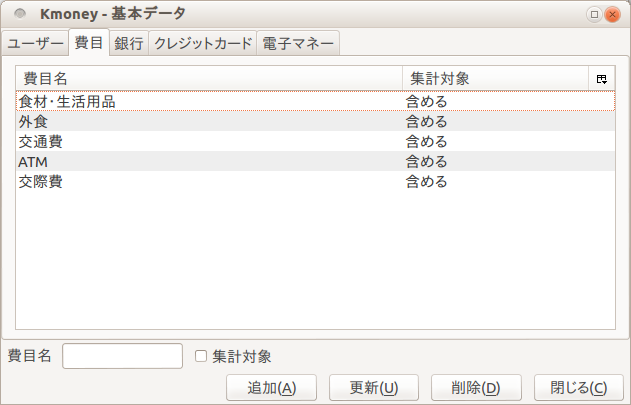
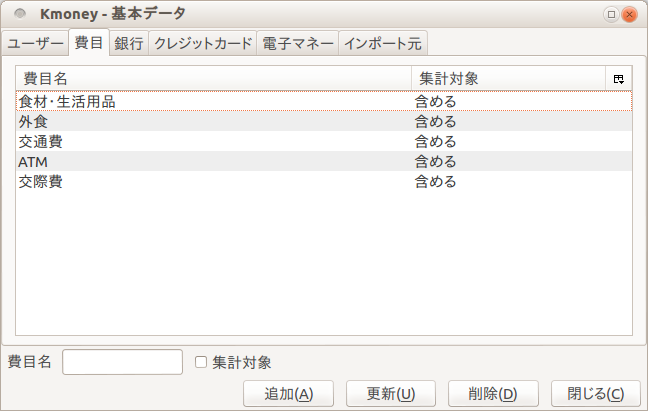
基本データ設定ダイアログにインポート元タブを追加

diff --git a/usermanual.html b/usermanual.html
@@ -122,7 +122,7 @@
 
 <h3>インポート設定</h3>
 
-<p><img src="screenshots/Kmoney_Firefox_005.png" alt="インポート設定" /></p>
+<p><img src="screenshots/Kmoney_Firefox_005.png" alt="インポート設定" title="" /></p>
 
 <p>メニューバーの「設定」ー「インポート設定」で、インポートのルールを設定することができます。</p>
 
@@ -144,9 +144,13 @@
 
 <h3>費目</h3>
 
-<p>「費目」タブで費目を設定します。「集計対象」をチェックすると、その費目は「集計」タブの全費目のグラフを表示するときに集計対象となります。銀行口座からのクレジットカードの引き落しなどはここで集計対象外としてください。集計対象にしてしまうと二重計上が発生してしまいます。</p>
+<p>「費目」タブで費目を設定します。「集計対象」をチェックすると、その費目は「集計」タブの全費目のグラフを表示するときに集計対象となります。収入の費目は集計対象外としてください。集計タブでは支出を正の値として計算するため、収入は負の値として表示されてしまいます。また、クレジットカードの支払いや電子マネーのチャージを記録するための費目も集計対象外としてください。そうしないとクレジットカードや電子マネーを使って何かを買った時の支出と二重に計上されてしまいます。</p>
 
 <p>すでにデータがある費目を削除しようとした場合、データの移行先を選択するダイアログが表示されます。例えば「電話」という費目を削除するとき、移行先として「通信費」を選択すると、費目が「電話」になっていたデータは「通信費」のデータになります。</p>
+
+<h3>インポート元</h3>
+
+<p>「インポート元」タブは、インポートダイアログに現れるインポート元のリストを設定します。使わないインポート元は無効としてください。</p>
 
 <h2><a id="summary"></a>集計／収支</h2>
 
@@ -181,7 +185,6 @@
 <p>明細タブで更新や削除を実行するとき、確認ダイアログが出ないようにしたい場合、「プロンプト」タブの「レコードの更新・削除」のチェックを外してください。</p>
 
 <p>クレジットカードや電子マネーを使わない方は、「表示」タブの「クレジットカード」や「電子マネー」のチェックを外してください。</p>
-
         </section>
 
         <aside id="sidebar">

diff --git a/index.html b/index.html
@@ -29,14 +29,16 @@
         <section id="main-content">
           <p>Kmoneyは、PC、タブレット、スマートフォンで使える家計簿ソフトです。</p>
           
-          <h2>特徴</h2>
-          <ol>
-          <li>現金、クレジットカード、電子マネー、銀行口座の収支を入力できます。</li>
-          <li>費目ごとに毎月の支出を集計できます。</li>
-          <li>複数名の収支を別々に管理できます。</li>
-          <li>ウェブ上で取得できる銀行の入出金明細やクレジットカード明細をインポートできます。</li>
-          </ol>
+          <img src="screenshots/Kmoney_Firefox_000.png" style="width: 400px; float: right" alt="グラフ" />
           
+          <p>家計簿をつけていくうえで一番問題なのは、入力がメンドクサイことです。ふと気がつくと数週間分のレシートがたまってしまい、レシートを見ても何を買ったのか思い出せないことがあります。</p>
+          
+          <p>それを防ぐための第一の方法は、レシートをためないこと、買い物の直後に入力することです。スマートフォンを使えば、買い物の帰り道、電車内や信号待ちの時間を使ってレシートを片づけることができます。</p>
+          
+          <p>もう一つの方法は、銀行の入出金明細やクレジットカードの利用明細を使うことです。ウェブ上で取得できる明細のファイルを取り込めば、入力の手間が大幅に減ります。</p>
+          
+          <p>Kmoneyは、この二つの方法を実現することを目指す家計簿ソフトです。</p>
+
           <h2>インストール</h2>
           
           <p>PC版とタブレット／スマートフォン版があります。</p>

diff --git a/usermanual.md b/usermanual.md
@@ -112,9 +112,14 @@
 
 ### 費目
 
-「費目」タブで費目を設定します。「集計対象」をチェックすると、その費目は「集計」タブの全費目のグラフを表示するときに集計対象となります。銀行口座からのクレジットカードの引き落しなどはここで集計対象外としてください。集計対象にしてしまうと二重計上が発生してしまいます。
+「費目」タブで費目を設定します。「集計対象」をチェックすると、その費目は「集計」タブの全費目のグラフを表示するときに集計対象となります。収入の費目は集計対象外としてください。集計タブでは支出を正の値として計算するため、収入は負の値として表示されてしまいます。また、クレジットカードの支払いや電子マネーのチャージを記録するための費目も集計対象外としてください。そうしないとクレジットカードや電子マネーを使って何かを買った時の支出と二重に計上されてしまいます。
 
 すでにデータがある費目を削除しようとした場合、データの移行先を選択するダイアログが表示されます。例えば「電話」という費目を削除するとき、移行先として「通信費」を選択すると、費目が「電話」になっていたデータは「通信費」のデータになります。
+
+### インポート元
+
+「インポート元」タブは、インポートダイアログに現れるインポート元のリストを設定します。使わないインポート元は無効としてください。
+
 
 ## <a id="summary"></a>集計／収支
 
